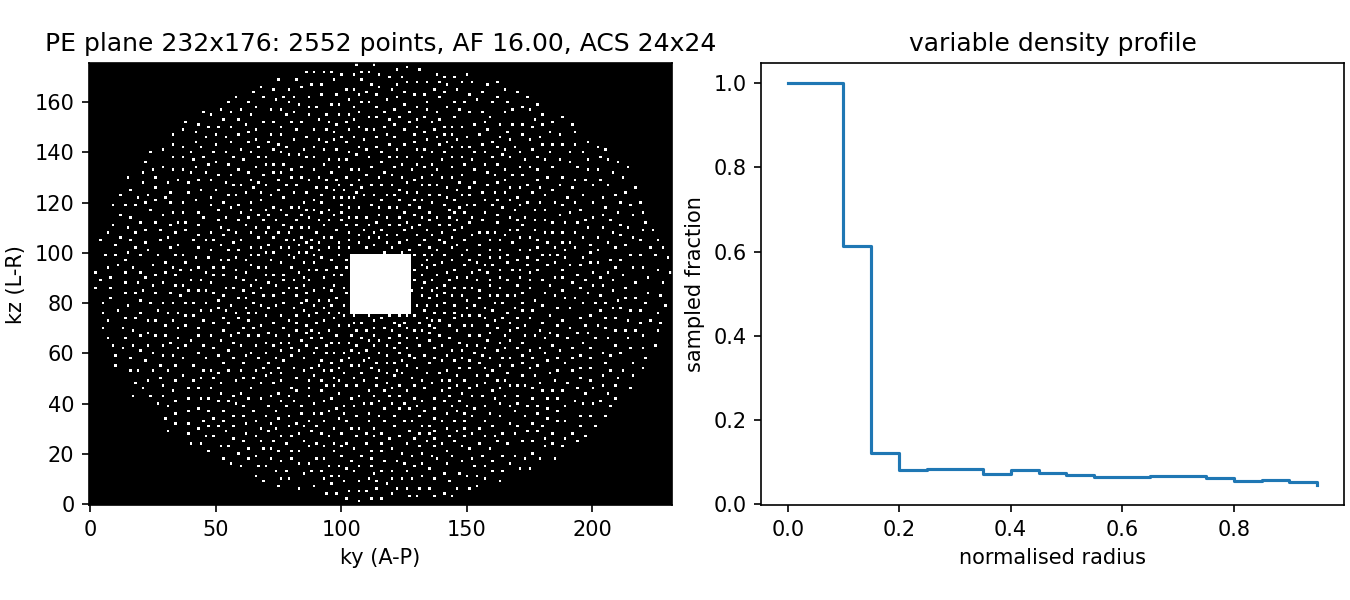
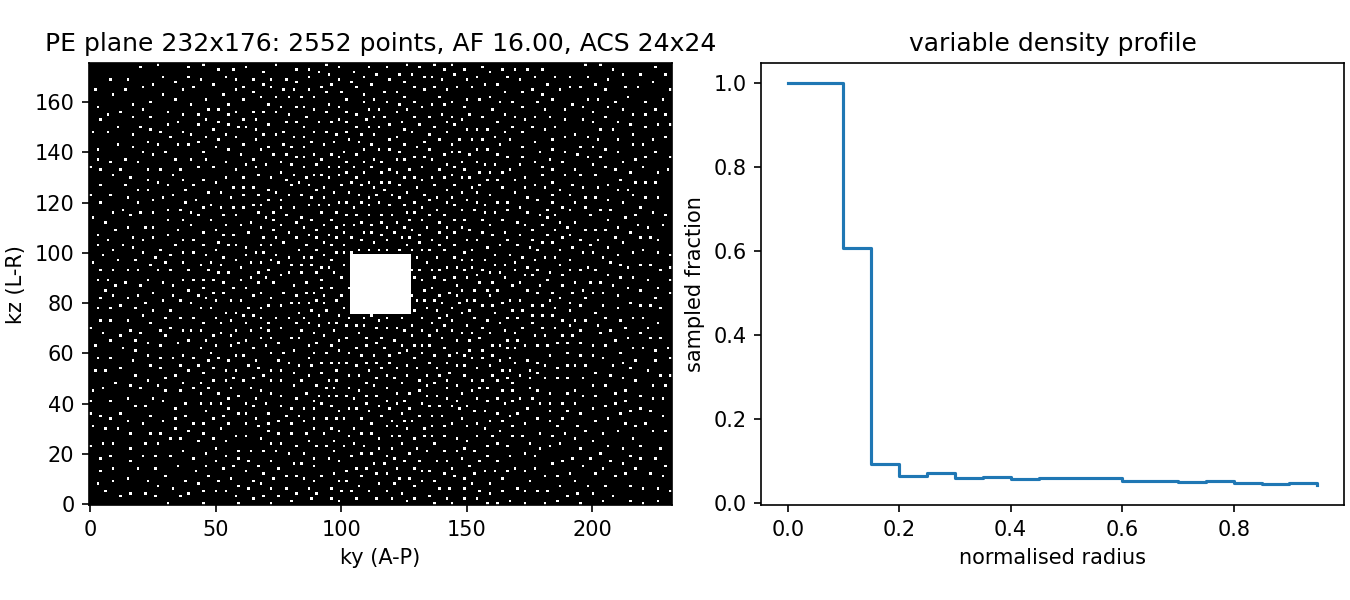
ce retro af16: mask without elliptical shutter (corners sampled), search audit fields tested

diff --git a/ce_retro_cssense_af16/scripts/make_mask_af16.py b/ce_retro_cssense_af16/scripts/make_mask_af16.py
@@ -1,8 +1,9 @@
 #!/usr/bin/env python3
 """make_mask_af16.py -- one variable-density Poisson-disc mask on the (232, 176) phase-encode plane with exactly
 2552 = 40832 / 16 sampled points (AF 16.00 under the 2026-09-14 definition: plane points / sampled points), a fully
-sampled 24 x 24 ACS, elliptical scanning, generated by BART `poisson` with a fixed seed so it can be regenerated
-bit for bit (vdPoisMex seeds from the wall clock and cannot).
+sampled 24 x 24 ACS, NO elliptical shutter (user decision 2026-09-17: the whole rectangle is sampled, corners
+included, matching the jyz vdPoisMex ellipse=0 convention), generated by BART `poisson` with a fixed seed so it
+can be regenerated bit for bit (vdPoisMex seeds from the wall clock and cannot).
 
 Search: seed 0, acceleration a = -y = -z. A coarse sweep on a 0.25 grid from 2.5 to 8.0 (23 BART calls) finds the
 bracket where the point count crosses 2552 (count is monotone non-increasing in a); bisection on that bracket (at
@@ -38,21 +39,18 @@ def read_cfl(base):
 
 
 def poisson(acc, seed, workdir):
-    """BART poisson -Y 232 -Z 176 -y a -z a -C 24 -v -e -s seed -> boolean (232, 176)
+    """BART poisson -Y 232 -Z 176 -y a -z a -C 24 -v -s seed -> boolean (232, 176)
 
-    BART's own -e ellipse is checked in continuous coordinates and lets through a handful of
-    samples (order 1 in 1000, max normalised radius seen ~1.01) just outside the discrete
-    unit-radius ellipse radius() defines here; they are zeroed after generation so the elliptical
-    invariant asserted by the tests and main() holds exactly. (The -C 24 calibration region was
-    checked separately and is a full 24x24 block as generated, so no ACS fallback was needed.)
+    No elliptical shutter (user decision 2026-09-17): the whole 232x176 rectangle is sampled, corners
+    included. (The -C 24 calibration region was checked separately and is a full 24x24 block as
+    generated, so no ACS fallback is needed either.)
     """
     Path(workdir).mkdir(parents=True, exist_ok=True)
     base = Path(workdir) / f"p_{acc:.3f}_{seed}"
     subprocess.run([BART, "poisson", "-Y", str(NY), "-Z", str(NZ), "-y", f"{acc:.3f}", "-z", f"{acc:.3f}",
-                    "-C", str(ACS), "-v", "-e", "-s", str(seed), str(base)], check=True, capture_output=True)
+                    "-C", str(ACS), "-v", "-s", str(seed), str(base)], check=True, capture_output=True)
     m = np.abs(read_cfl(base)) > 0.5
     assert m.shape == (NY, NZ), m.shape
-    m[radius() > 1.0] = False
     return m
 
 
@@ -97,12 +95,15 @@ def find_mask(seeds=(0, 1, 2), workdir=None):
             visited.append((float(acc), nn))
             return mm, nn
 
+        def hit(acc, n):                                          # exact-hit result dict for this seed
+            return dict(seed=seed, acc=float(acc), count_raw=n, trimmed=0, af=NY * NZ / n,
+                        n_bart_calls=len(visited), visited=list(visited))
+
         coarse = np.round(np.arange(2.5, 8.0001, 0.25), 3)        # 23 calls
         for acc in coarse:
             m, n = draw(acc)
             if n == TARGET:
-                return m, dict(seed=seed, acc=float(acc), count_raw=n, trimmed=0, af=NY * NZ / n,
-                                n_bart_calls=len(visited), visited=list(visited))
+                return m, hit(acc, n)
             if n > TARGET and (best is None or n < best[1]):
                 best = (float(acc), n, m)
 
@@ -120,8 +121,7 @@ def find_mask(seeds=(0, 1, 2), workdir=None):
                     break
                 m, n = draw(mid)
                 if n == TARGET:
-                    return m, dict(seed=seed, acc=mid, count_raw=n, trimmed=0, af=NY * NZ / n,
-                                    n_bart_calls=len(visited), visited=list(visited))
+                    return m, hit(mid, n)
                 if n > TARGET:
                     a_lo = mid
                     if best is None or n < best[1]:
@@ -148,14 +148,14 @@ def density_profile(m, rn, nb=20):
 
 def main():
     m, info = find_mask()
-    assert int(m.sum()) == TARGET and acs_block(m).all() and m[radius() > 1.0].sum() == 0
+    assert int(m.sum()) == TARGET and acs_block(m).all() and m[radius() > 1.0].sum() > 0
     out = R / "sim/mask"; out.mkdir(parents=True, exist_ok=True)
     np.save(out / "mask_af16_pe.npy", m.astype(np.uint8))
     with h5py.File(out / "mask_af16_3d.h5", "w") as f:
         f.create_dataset("mask", data=np.broadcast_to(m[None], (NX, NY, NZ)).astype(np.uint8))
     ver = subprocess.run([BART, "version"], capture_output=True, text=True).stdout.strip()
     info.update(plane=[NY, NZ], target=TARGET, acs=ACS, dc=[NY // 2, NZ // 2], bart=ver, bart_path=BART,
-                cmd=f"{BART} poisson -Y {NY} -Z {NZ} -y {info['acc']:.3f} -z {info['acc']:.3f} -C {ACS} -v -e -s {info['seed']}")
+                cmd=f"{BART} poisson -Y {NY} -Z {NZ} -y {info['acc']:.3f} -z {info['acc']:.3f} -C {ACS} -v -s {info['seed']}")
     json.dump(info, open(out / "mask_af16.json", "w"), indent=1)
     import matplotlib; matplotlib.use("Agg"); import matplotlib.pyplot as plt
     rn = radius(); edges, prof = density_profile(m, rn)

diff --git a/ce_retro_cssense_af16/scripts/tests/test_mask.py b/ce_retro_cssense_af16/scripts/tests/test_mask.py
@@ -4,19 +4,18 @@ import pytest
 import make_mask_af16 as M
 
 
-def test_poisson_is_deterministic_elliptical_with_full_acs(tmp_path):
+def test_poisson_is_deterministic_rectangular_with_full_acs(tmp_path):
     a = M.poisson(4.0, 1, tmp_path)
     b = M.poisson(4.0, 1, tmp_path / "again")
     assert a.shape == (M.NY, M.NZ) and a.dtype == bool
     assert np.array_equal(a, b)
     assert M.acs_block(a).all()
-    assert a[M.radius() > 1.0].sum() == 0
+    assert a[M.radius() > 1.0].sum() > 0            # no elliptical shutter: the corners are sampled too
 
 
 def test_trim_keeps_acs_and_hits_target():
     rng = np.random.default_rng(0)
     m = rng.random((M.NY, M.NZ)) < 0.08
-    m[M.radius() > 1.0] = False
     y0, z0 = M.NY // 2 - M.ACS // 2, M.NZ // 2 - M.ACS // 2
     m[y0:y0 + M.ACS, z0:z0 + M.ACS] = True
     t = M.trim_to_target(m, M.radius(), M.TARGET)
@@ -30,3 +29,8 @@ def test_find_mask_exact_af16(tmp_path):
     assert m.sum() == M.TARGET == 2552
     assert M.acs_block(m).all()
     assert info["af"] == pytest.approx(16.0)
+    assert isinstance(info["n_bart_calls"], int) and info["n_bart_calls"] > 0
+    assert info["n_bart_calls"] == len(info["visited"])
+    assert len(info["visited"]) > 0
+    assert all(isinstance(a, float) and isinstance(n, int) for a, n in info["visited"])
+    assert info["count_raw"] - info["trimmed"] == M.TARGET
